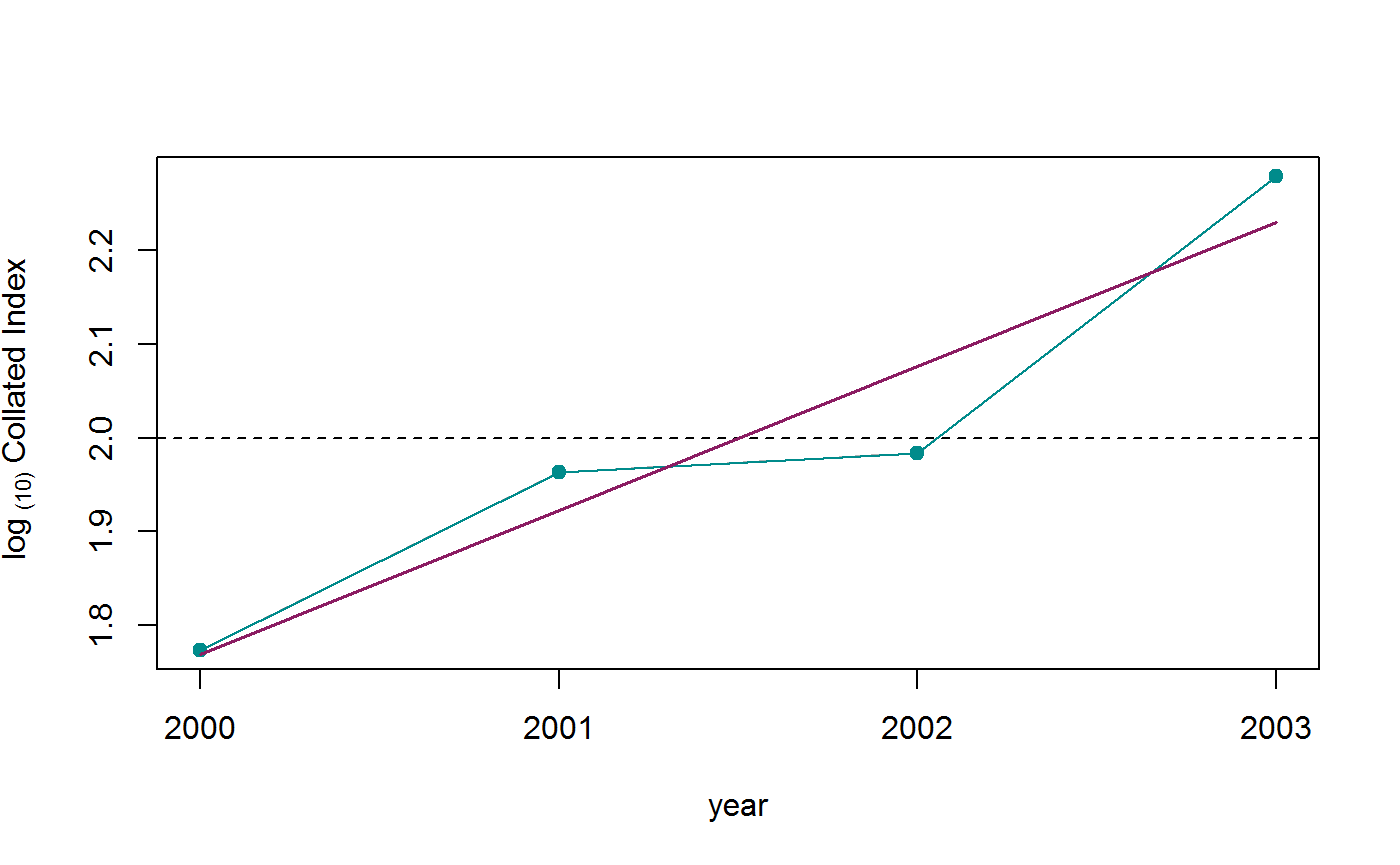
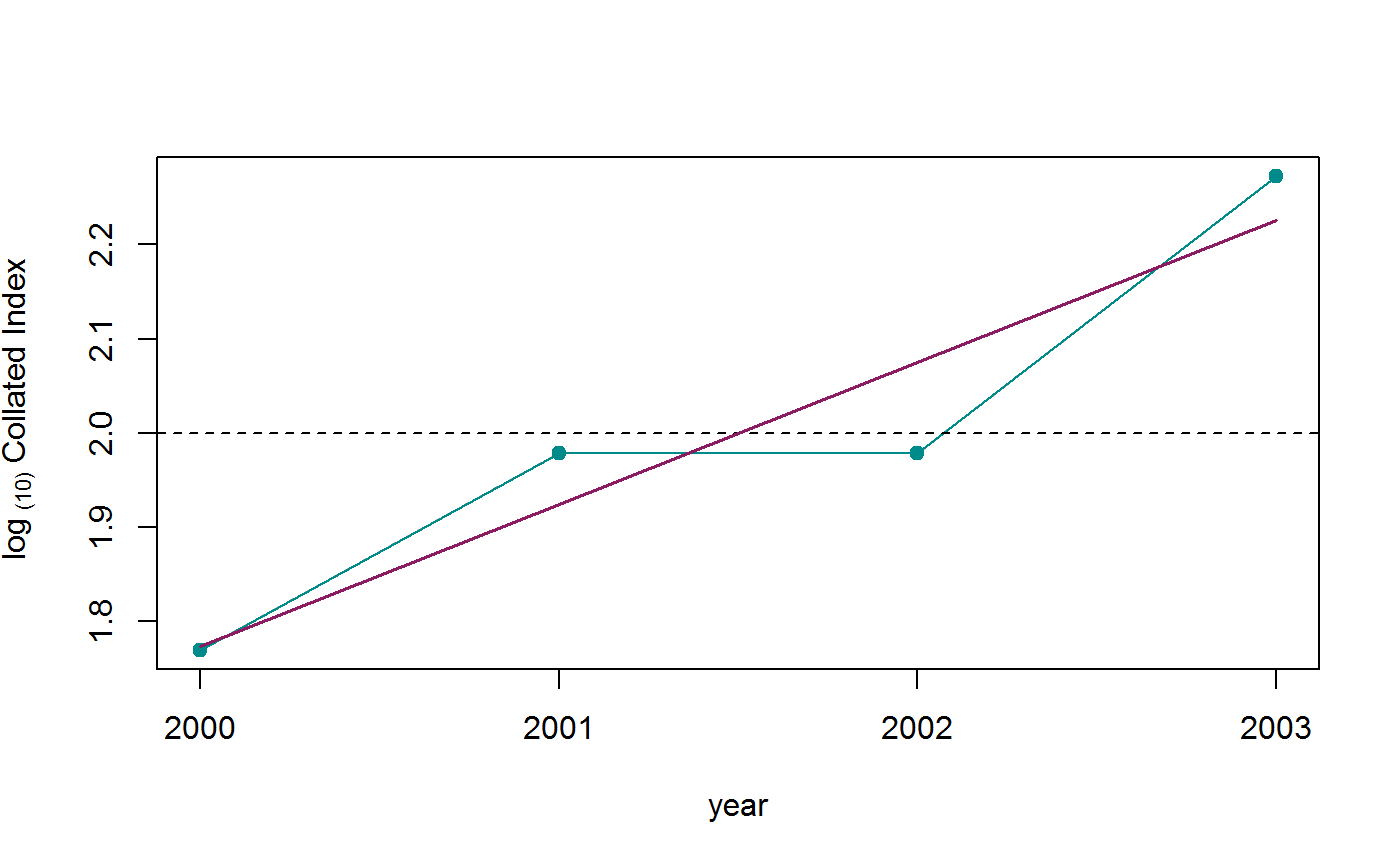
update v1.0.2 - rm ConLikelihood

diff --git a/docs/articles/Get_Started_1.html b/docs/articles/Get_Started_1.html
@@ -37,7 +37,7 @@
       </button>
       <span class="navbar-brand">
         <a class="navbar-link" href="../index.html">rbms</a>
-        <span class="version label label-default" data-toggle="tooltip" data-placement="bottom" title="Released version">1.0.1</span>
+        <span class="version label label-default" data-toggle="tooltip" data-placement="bottom" title="Released version">1.0.2</span>
       </span>
     </div>
 
@@ -100,7 +100,7 @@
 <h5 class="hasAnchor">
 <a href="#load-package-and-data-included-in-the-package" class="anchor"></a>1. load package and data included in the package</h5>
 <div class="sourceCode" id="cb1"><html><body><pre class="r"><span class="fu"><a href="https://rdrr.io/r/base/library.html">library</a></span>(<span class="no">rbms</span>)</pre></body></html></div>
-<pre><code>##  Welcome to rbms, version 1.0.1 
+<pre><code>##  Welcome to rbms, version 1.0.2 
 ##  While this package has been tested by several users,
 ##  it is still in active development and feedbacks are welcome 
 ##  https://github.com/RetoSchmucki/rbms/issues</code></pre>
@@ -170,10 +170,10 @@ data(m_count)</pre></body></html></div>
 <p>The objective of this function is to extract the shape of your flight curve, so you might want to impose some minimal quality thresholds to the data used to inform this model. This can be done by setting the Minimum number of visit <code>MinNbrVisit</code>, the minimum number of occurrence <code>MinOccur</code> and number of site <code>MinNbrSite</code>.</p>
 <p>These values are likely to influence your model and will differ across species and data set, but <code>MinOccur</code> should be set &gt;= 2, the <code>MinNbrVisit</code> &gt; <code>MinOccur</code> and <code>MinNbrSite</code> &gt;= 5. The chose for these threshold will affect how well your model is informed and the with higher value you might have less site and therefore will have to revise the chose.</p>
 <div class="sourceCode" id="cb10"><html><body><pre class="r"> <span class="no">ts_flight_curve</span> <span class="kw">&lt;-</span> <span class="kw pkg">rbms</span><span class="kw ns">::</span><span class="fu"><a href="../reference/flight_curve.html">flight_curve</a></span>(<span class="no">ts_season_count</span>, <span class="kw">NbrSample</span> <span class="kw">=</span> <span class="fl">300</span>, <span class="kw">MinVisit</span> <span class="kw">=</span> <span class="fl">5</span>, <span class="kw">MinOccur</span> <span class="kw">=</span> <span class="fl">3</span>, <span class="kw">MinNbrSite</span> <span class="kw">=</span> <span class="fl">5</span>, <span class="kw">MaxTrial</span> <span class="kw">=</span> <span class="fl">4</span>, <span class="kw">GamFamily</span> <span class="kw">=</span> <span class="st">'nb'</span>, <span class="kw">SpeedGam</span> <span class="kw">=</span> <span class="fl">FALSE</span>, <span class="kw">CompltSeason</span> <span class="kw">=</span> <span class="fl">TRUE</span>, <span class="kw">SelectYear</span> <span class="kw">=</span> <span class="kw">NULL</span>, <span class="kw">TimeUnit</span> <span class="kw">=</span> <span class="st">'w'</span>)</pre></body></html></div>
-<pre><code>## [1] "Fitting the flight curve spline for species 2 and year 2000 with 76 sites, using gam() : 2020-04-08 09:58:39 -&gt; trial 1"
-## [1] "Fitting the flight curve spline for species 2 and year 2001 with 76 sites, using gam() : 2020-04-08 09:58:41 -&gt; trial 1"
-## [1] "Fitting the flight curve spline for species 2 and year 2002 with 88 sites, using gam() : 2020-04-08 09:58:41 -&gt; trial 1"
-## [1] "Fitting the flight curve spline for species 2 and year 2003 with 103 sites, using gam() : 2020-04-08 09:58:41 -&gt; trial 1"</code></pre>
+<pre><code>## [1] "Fitting the flight curve spline for species 2 and year 2000 with 76 sites, using gam() : 2020-04-13 11:08:07 -&gt; trial 1"
+## [1] "Fitting the flight curve spline for species 2 and year 2001 with 76 sites, using gam() : 2020-04-13 11:08:09 -&gt; trial 1"
+## [1] "Fitting the flight curve spline for species 2 and year 2002 with 88 sites, using gam() : 2020-04-13 11:08:10 -&gt; trial 1"
+## [1] "Fitting the flight curve spline for species 2 and year 2003 with 103 sites, using gam() : 2020-04-13 11:08:11 -&gt; trial 1"</code></pre>
 <blockquote>
 <p>NOTE: for the <code>flight_curve</code> furnction, you will also have to define some parameters for the distribution for the GAM model as well as the maximum number of time to try to fit the model and the number of sample to use. The later will take a random sample from the data set if it contain more site than the number specified.</p>
 </blockquote>

diff --git a/docs/articles/Get_Started_2.html b/docs/articles/Get_Started_2.html
@@ -37,7 +37,7 @@
       </button>
       <span class="navbar-brand">
         <a class="navbar-link" href="../index.html">rbms</a>
-        <span class="version label label-default" data-toggle="tooltip" data-placement="bottom" title="Released version">1.0.1</span>
+        <span class="version label label-default" data-toggle="tooltip" data-placement="bottom" title="Released version">1.0.2</span>
       </span>
     </div>
 
@@ -101,17 +101,17 @@
 </blockquote>
 <div class="sourceCode" id="cb1"><html><body><pre class="r">library(data.table)
 library(rbms)</pre></body></html></div>
-<pre><code>##  Welcome to rbms, version 1.0.1 
+<pre><code>##  Welcome to rbms, version 1.0.2 
 ##  While this package has been tested by several users,
 ##  it is still in active development and feedbacks are welcome 
 ##  https://github.com/RetoSchmucki/rbms/issues</code></pre>
 <div class="sourceCode" id="cb3"><html><body><pre class="r">data(m_visit)
 data(m_count)
 ts_date </pre></body></html></div>
-<pre><code>## [1] "Fitting the flight curve spline for species 2 and year 2000 with 76 sites, using gam() : 2020-04-08 09:59:04 -&gt; trial 1"
-## [1] "Fitting the flight curve spline for species 2 and year 2001 with 76 sites, using gam() : 2020-04-08 09:59:05 -&gt; trial 1"
-## [1] "Fitting the flight curve spline for species 2 and year 2002 with 88 sites, using gam() : 2020-04-08 09:59:05 -&gt; trial 1"
-## [1] "Fitting the flight curve spline for species 2 and year 2003 with 103 sites, using gam() : 2020-04-08 09:59:06 -&gt; trial 1"</code></pre>
+<pre><code>## [1] "Fitting the flight curve spline for species 2 and year 2000 with 76 sites, using gam() : 2020-04-13 11:08:26 -&gt; trial 1"
+## [1] "Fitting the flight curve spline for species 2 and year 2001 with 76 sites, using gam() : 2020-04-13 11:08:27 -&gt; trial 1"
+## [1] "Fitting the flight curve spline for species 2 and year 2002 with 88 sites, using gam() : 2020-04-13 11:08:28 -&gt; trial 1"
+## [1] "Fitting the flight curve spline for species 2 and year 2003 with 103 sites, using gam() : 2020-04-13 11:08:31 -&gt; trial 1"</code></pre>
 <div id="impute-predicted-counts-for-missing-monitoring-dates" class="section level5">
 <h5 class="hasAnchor">
 <a href="#impute-predicted-counts-for-missing-monitoring-dates" class="anchor"></a>4. Impute predicted counts for missing monitoring dates</h5>
@@ -136,10 +136,10 @@ pheno </pre></body></html></div>
 <p>The collated index computed by the <code><a href="../reference/collated_index.html">collated_index()</a></code> function corresponds to the mean total butterfly count expected on a BMS transect in a given year.</p>
 <pre><code>## $col_index
 ##    BOOTi M_YEAR NSITE NSITE_OBS COL_INDEX
-## 1:     0   2000   124       108  19.14146
-## 2:     0   2001   108       100  29.64935
-## 3:     0   2002   114       107  31.03463
-## 4:     0   2003   122       113  61.40436
+## 1:     0   2000   124       108  19.23040
+## 2:     0   2001   108       100  31.12038
+## 3:     0   2002   114       107  31.13623
+## 4:     0   2003   122       113  61.25559
 ## 
 ## $site_id
 ##   [1] "1"   "14"  "157" "158" "159" "160" "161" "162" "163" "164" "165" "166"

diff --git a/docs/reference/flight_curve.html b/docs/reference/flight_curve.html
@@ -85,7 +85,7 @@ Compute the annual flight curve from butterfly count data collated across multip
       </button>
       <span class="navbar-brand">
         <a class="navbar-link" href="../index.html">rbms</a>
-        <span class="version label label-default" data-toggle="tooltip" data-placement="bottom" title="Released version">1.0.1</span>
+        <span class="version label label-default" data-toggle="tooltip" data-placement="bottom" title="Released version">1.0.2</span>
       </span>
     </div>
 
@@ -156,7 +156,6 @@ Compute the annual flight curve from butterfly count data collated across multip
   <span class='kw'>OptiGam</span> <span class='kw'>=</span> <span class='fl'>TRUE</span>,
   <span class='kw'>KeepModel</span> <span class='kw'>=</span> <span class='fl'>TRUE</span>,
   <span class='kw'>KeepModelData</span> <span class='kw'>=</span> <span class='fl'>TRUE</span>,
-  <span class='kw'>ConLikelihood</span> <span class='kw'>=</span> <span class='fl'>TRUE</span>,
   <span class='kw'>TimeUnit</span> <span class='kw'>=</span> <span class='st'>"d"</span>,
   <span class='kw'>MultiVisit</span> <span class='kw'>=</span> <span class='st'>"mean"</span>,
   <span class='no'>...</span>
@@ -216,10 +215,6 @@ Compute the annual flight curve from butterfly count data collated across multip
     <tr>
       <th>KeepModelData</th>
       <td><p>Logical to keep the data used for the GAM.</p></td>
-    </tr>
-    <tr>
-      <th>ConLikelihood</th>
-      <td><p>Logical to use the concentrated likelihood approach without site parameters (default = TRUE).</p></td>
     </tr>
     <tr>
       <th>TimeUnit</th>

diff --git a/docs/reference/get_nm.html b/docs/reference/get_nm.html
@@ -85,7 +85,7 @@ Compute the Normalized flight curve by fitting a spline in a Generalized Additiv
       </button>
       <span class="navbar-brand">
         <a class="navbar-link" href="../index.html">rbms</a>
-        <span class="version label label-default" data-toggle="tooltip" data-placement="bottom" title="Released version">1.0.1</span>
+        <span class="version label label-default" data-toggle="tooltip" data-placement="bottom" title="Released version">1.0.2</span>
       </span>
     </div>
 
@@ -154,7 +154,6 @@ Compute the Normalized flight curve by fitting a spline in a Generalized Additiv
   <span class='no'>SpeedGam</span>,
   <span class='no'>OptiGam</span>,
   <span class='no'>TimeUnit</span>,
-  <span class='no'>ConLikelihood</span>,
   <span class='no'>MultiVisit</span>
 )</pre>
 
@@ -204,10 +203,6 @@ Compute the Normalized flight curve by fitting a spline in a Generalized Additiv
     <tr>
       <th>TimeUnit</th>
       <td><p>Character defining if the spline should be computed at the day 'd' or the week 'd'.</p></td>
-    </tr>
-    <tr>
-      <th>ConLikelihood</th>
-      <td><p>Logical to use the concentrated likelihood approach without site parameters (default = TRUE).</p></td>
     </tr>
     <tr>
       <th>MultiVisit</th>

diff --git a/docs/reference/fit_gam.html b/docs/reference/fit_gam.html
@@ -85,7 +85,7 @@ fit a Generalized Additive Model to butterfly count data along a temporal variab
       </button>
       <span class="navbar-brand">
         <a class="navbar-link" href="../index.html">rbms</a>
-        <span class="version label label-default" data-toggle="tooltip" data-placement="bottom" title="Released version">1.0.1</span>
+        <span class="version label label-default" data-toggle="tooltip" data-placement="bottom" title="Released version">1.0.2</span>
       </span>
     </div>
 
@@ -180,10 +180,6 @@ fit a Generalized Additive Model to butterfly count data along a temporal variab
     <tr>
       <th>OptiGam</th>
       <td><p>Logical to set use bam when data are larger than 100 and gam for smaller dataset</p></td>
-    </tr>
-    <tr>
-      <th>ConLikelihood</th>
-      <td><p>Logical to use the concentrated likelihood approach without site parameters (default = TRUE).</p></td>
     </tr>
     <tr>
       <th>TimeUnit</th>

diff --git a/docs/reference/check_pheno.html b/docs/reference/check_pheno.html
@@ -85,7 +85,7 @@ Check for the flight curve of a specific year and if missing, impute the nearest
       </button>
       <span class="navbar-brand">
         <a class="navbar-link" href="../index.html">rbms</a>
-        <span class="version label label-default" data-toggle="tooltip" data-placement="bottom" title="Released version">1.0.1</span>
+        <span class="version label label-default" data-toggle="tooltip" data-placement="bottom" title="Released version">1.0.2</span>
       </span>
     </div>
 

diff --git a/docs/reference/collated_index.html b/docs/reference/collated_index.html
@@ -85,7 +85,7 @@ compute a collated index from the site indices, using a Generalized Linear Model
       </button>
       <span class="navbar-brand">
         <a class="navbar-link" href="../index.html">rbms</a>
-        <span class="version label label-default" data-toggle="tooltip" data-placement="bottom" title="Released version">1.0.1</span>
+        <span class="version label label-default" data-toggle="tooltip" data-placement="bottom" title="Released version">1.0.2</span>
       </span>
     </div>
 

diff --git a/docs/reference/collated_index_old.html b/docs/reference/collated_index_old.html
@@ -85,7 +85,7 @@ compute a collated index from the site indices, using a Generalized Linear Model
       </button>
       <span class="navbar-brand">
         <a class="navbar-link" href="../index.html">rbms</a>
-        <span class="version label label-default" data-toggle="tooltip" data-placement="bottom" title="Released version">1.0.1</span>
+        <span class="version label label-default" data-toggle="tooltip" data-placement="bottom" title="Released version">1.0.2</span>
       </span>
     </div>
 

diff --git a/docs/reference/df_visit_season.html b/docs/reference/df_visit_season.html
@@ -85,7 +85,7 @@ Link each recorded visit to a corresponding monitoring season, this function is 
       </button>
       <span class="navbar-brand">
         <a class="navbar-link" href="../index.html">rbms</a>
-        <span class="version label label-default" data-toggle="tooltip" data-placement="bottom" title="Released version">1.0.1</span>
+        <span class="version label label-default" data-toggle="tooltip" data-placement="bottom" title="Released version">1.0.2</span>
       </span>
     </div>
 

diff --git a/docs/reference/site_index.html b/docs/reference/site_index.html
@@ -85,7 +85,7 @@ extract abundance indices per sites and year based on flight curve imputation." 
       </button>
       <span class="navbar-brand">
         <a class="navbar-link" href="../index.html">rbms</a>
-        <span class="version label label-default" data-toggle="tooltip" data-placement="bottom" title="Released version">1.0.1</span>
+        <span class="version label label-default" data-toggle="tooltip" data-placement="bottom" title="Released version">1.0.2</span>
       </span>
     </div>
 

diff --git a/docs/reference/ts_date_seq.html b/docs/reference/ts_date_seq.html
@@ -85,7 +85,7 @@ Generate a time-series of dates (per day) from the beginning of a starting year 
       </button>
       <span class="navbar-brand">
         <a class="navbar-link" href="../index.html">rbms</a>
-        <span class="version label label-default" data-toggle="tooltip" data-placement="bottom" title="Released version">1.0.1</span>
+        <span class="version label label-default" data-toggle="tooltip" data-placement="bottom" title="Released version">1.0.2</span>
       </span>
     </div>
 

diff --git a/docs/reference/ts_dwmy_table.html b/docs/reference/ts_dwmy_table.html
@@ -85,7 +85,7 @@ Generate a time-series of dates with day, week, month and year (dwmy) from one i
       </button>
       <span class="navbar-brand">
         <a class="navbar-link" href="../index.html">rbms</a>
-        <span class="version label label-default" data-toggle="tooltip" data-placement="bottom" title="Released version">1.0.1</span>
+        <span class="version label label-default" data-toggle="tooltip" data-placement="bottom" title="Released version">1.0.2</span>
       </span>
     </div>
 
